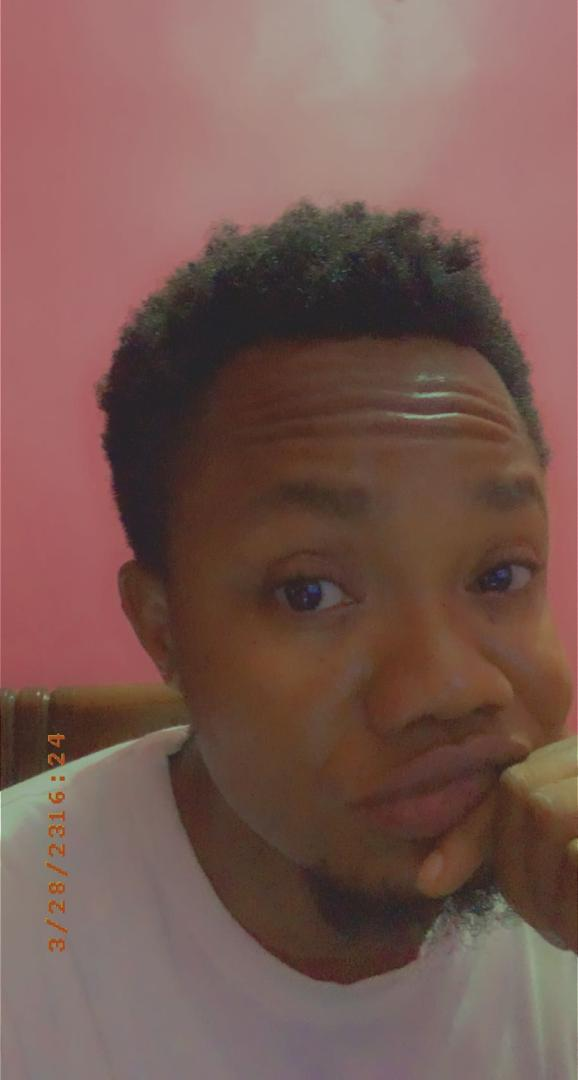
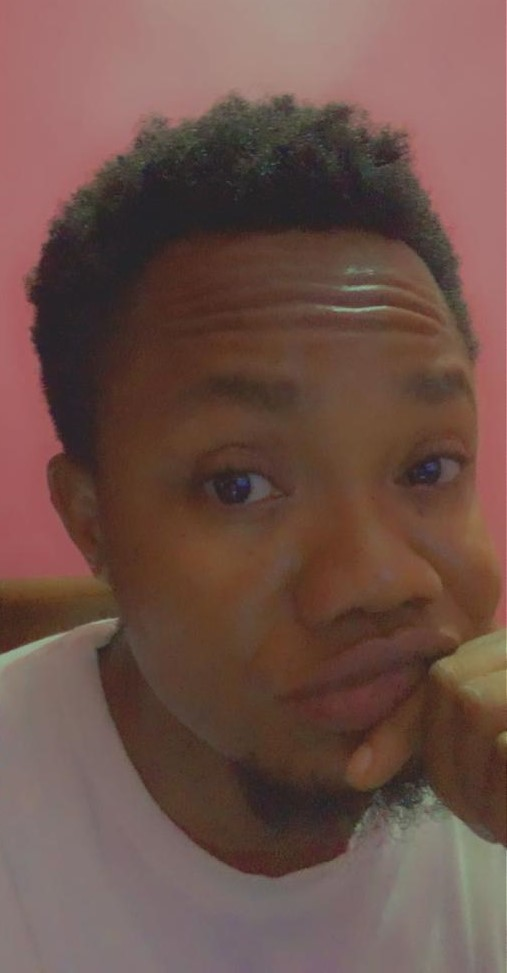
bitmoji photo

diff --git a/styles.css b/styles.css
@@ -278,8 +278,8 @@ span {
 
 .about-img img {
     position: relative;
-    width: 30vw;
-    height: 85vh;
+    width: 20vw;
+    height: 55vh;
     border-radius: 20rem;
     top: 1rem;
     cursor: pointer;
@@ -495,7 +495,11 @@ span {
     }
 
     .home img {
-        width: 32vw;
+        width: 25vw;
+    }
+
+    .about-img img {
+        width: 30vw;
     }
 }
 
@@ -559,7 +563,7 @@ span {
     }
 
     .home-img img {
-        width: 60vw;
+        width: 36vw;
         margin-top: 4rem;
     }
 
@@ -572,7 +576,7 @@ span {
     }
 
     .about img {
-        width: 64vw;
+        width: 34vw;
     }
 
     .projects h2 {

diff --git a/index.html b/index.html
@@ -29,7 +29,7 @@
 
     <section class="home" id="home">
         <div class="home-img">
-            <img src="images/Alex002.jpg" alt="">
+            <img src="images/Bitmoji-Alex.png" alt="">
         </div>
 
         <div class="home-content">
@@ -62,7 +62,7 @@
         </div>
 
         <div class="about-img">
-            <img src="images/Alex001.jpg" alt="">
+            <img src="images/Bitmoji-Alex.png" alt="">
         </div>
     </section>
 
